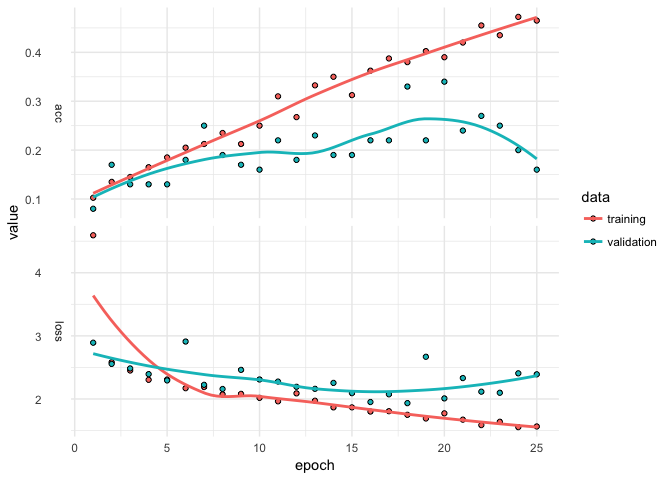
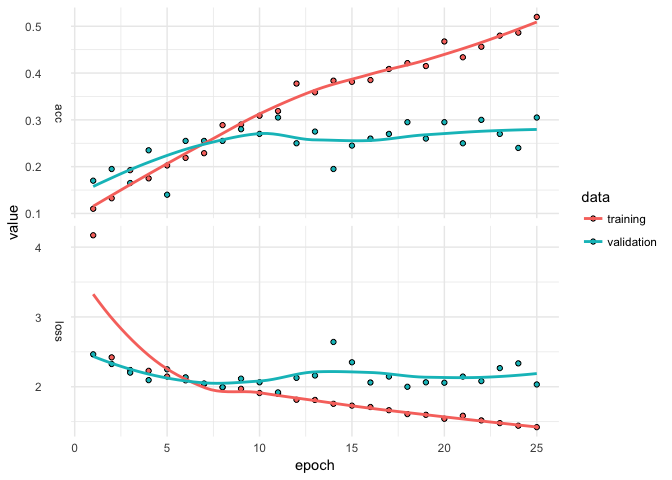
updating code

diff --git a/examples/cifar10/kerasformula_cifar10.md b/examples/cifar10/kerasformula_cifar10.md
@@ -72,7 +72,7 @@ The key to a good machine learning algorithm apparently lies in teaching the com
 Let's start by reading in all of the data.
 
 ``` r
-Nperfile <- 100 # 10,000 for full sample. otherwise N from each file.
+Nperfile <- 200 # 10,000 for full sample. otherwise N from each file.
 
 test_file <- file("cifar-10-batches-bin/test_batch.bin", "rb")
 raw_data <- readBin(test_file, integer(), n = 3073*Nperfile, size = 1, signed = FALSE)
@@ -82,7 +82,6 @@ X_test <- matrix(raw_data[-seq(1, length(raw_data), 3073)], nrow = Nperfile, byr
 
 y_train <- matrix(nrow = 5*Nperfile, ncol = 1)
 X_train <- matrix(nrow = 5*Nperfile, ncol = 3*1024)
-A_train <- array(dim = c(5*Nperfile, 32, 32, 3))
 
 for(i in 1:5){
   train_file <- file(dir("cifar-10-batches-bin/", pattern = "data_", full.names = TRUE)[i], "rb")
@@ -92,7 +91,7 @@ for(i in 1:5){
   X_train[1:Nperfile + (i - 1)*Nperfile, ] <- matrix(raw_data[-seq(1, length(raw_data), 3073)], 
                                        nrow = Nperfile, byrow=TRUE)
 }
-# remove(raw_data)
+remove(raw_data)
 ```
 
 A few spot checks...
@@ -103,15 +102,15 @@ table(y_test)       # if Nperfile = 10000, then should be 1,000 of each label
 
     y_test
      0  1  2  3  4  5  6  7  8  9 
-    10  6  8 10  7  8 16 11 13 11 
+    20 14 21 19 15 18 26 18 28 21 
 
 ``` r
 table(y_train)      # if Nperfile = 10000, then should be 5,000 of each label
 ```
 
     y_train
-     0  1  2  3  4  5  6  7  8  9 
-    37 58 51 50 53 50 53 54 41 53 
+      0   1   2   3   4   5   6   7   8   9 
+     83 114  94  99 109  98 101 104  94 104 
 
 ``` r
 range(X_train)       
@@ -132,7 +131,7 @@ In the full dataset, there are 5,000 of each type of image in the training data 
 ``` r
 training <- data.frame(lab = y_train, X = X_train) # rescale X to [0, 1]
 testing <- data.frame(lab = y_test, X = X_test)
-# rm(X_train, X_test)
+rm(X_train, X_test)
 ```
 
 `kms()` automatically splits the data into testing and training, however in this case the data are already split that way. Setting `kms(..., pTraining = 1)` and then calling `predict` on the outputted object along with the test data. `kms()` automatically puts data on a \[0, 1\] scale (but that can be altered, for example `kms(..., x_scale = scale)` standardizes). By default, `kms()` builds a dense model, meaning the simplest thing we can do is ...
@@ -149,6 +148,6 @@ forecast <- predict(fit, testing)
 forecast$accuracy
 ```
 
-    [1] 0.26
+    [1] 0.345
 
-That's pretty bad but the history suggests the model should run for more epochs (since the validated fit is still on an upward trajectory). That can be done by setting `kms(lab ~ ., training, pTraining = 1, Nepochs = 50)`. For a worked example showing options along these lines like loss and activation function and how to customize dense neural nets, see [here](https://tensorflow.rstudio.com/blog/analyzing-rtweet-data-with-kerasformula.html).
+That's pretty bad. The widening gap between the training and validation suggests overfitting is setting in and that fewer epochs would have done just as well. That can be done by setting `kms(lab ~ ., training, pTraining = 1, Nepochs = 10)`. For a worked example showing options along these lines like loss and activation function and how to customize dense neural nets, see [here](https://tensorflow.rstudio.com/blog/analyzing-rtweet-data-with-kerasformula.html).
